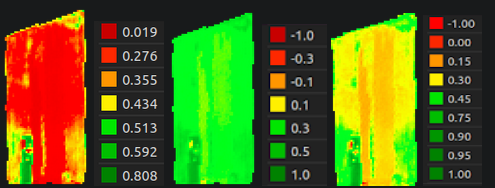
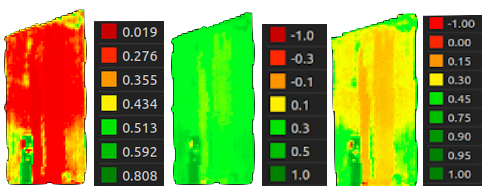
updated image background to transparent

Changed region(s): [[0.0, 0.0, 1.0, 1.0]]

diff --git a/docs/satellite_overview.md b/docs/satellite_overview.md
@@ -60,6 +60,10 @@ In addition, you will get the NDVI (i.e., we call them at Leaf as `NDVI_relative
 
 <img alt="NDVI example: Left - NDVI relative, Center - NDVI absolute, Right - NDVI" src={useBaseUrl('img/ndvi_files.png')} />
 
+Left - NDVI relative. Center - NDVI absolute. Right - NDVI.  
+We recommend using the Right one (just ndvi.png)
+
+
 Currently, our Satellite service runs without a relationship between our Field Services, and the User Management Services.
 However, we are working to integrate it into the `leafUser` hierarchy, and the Fields Service.
 
